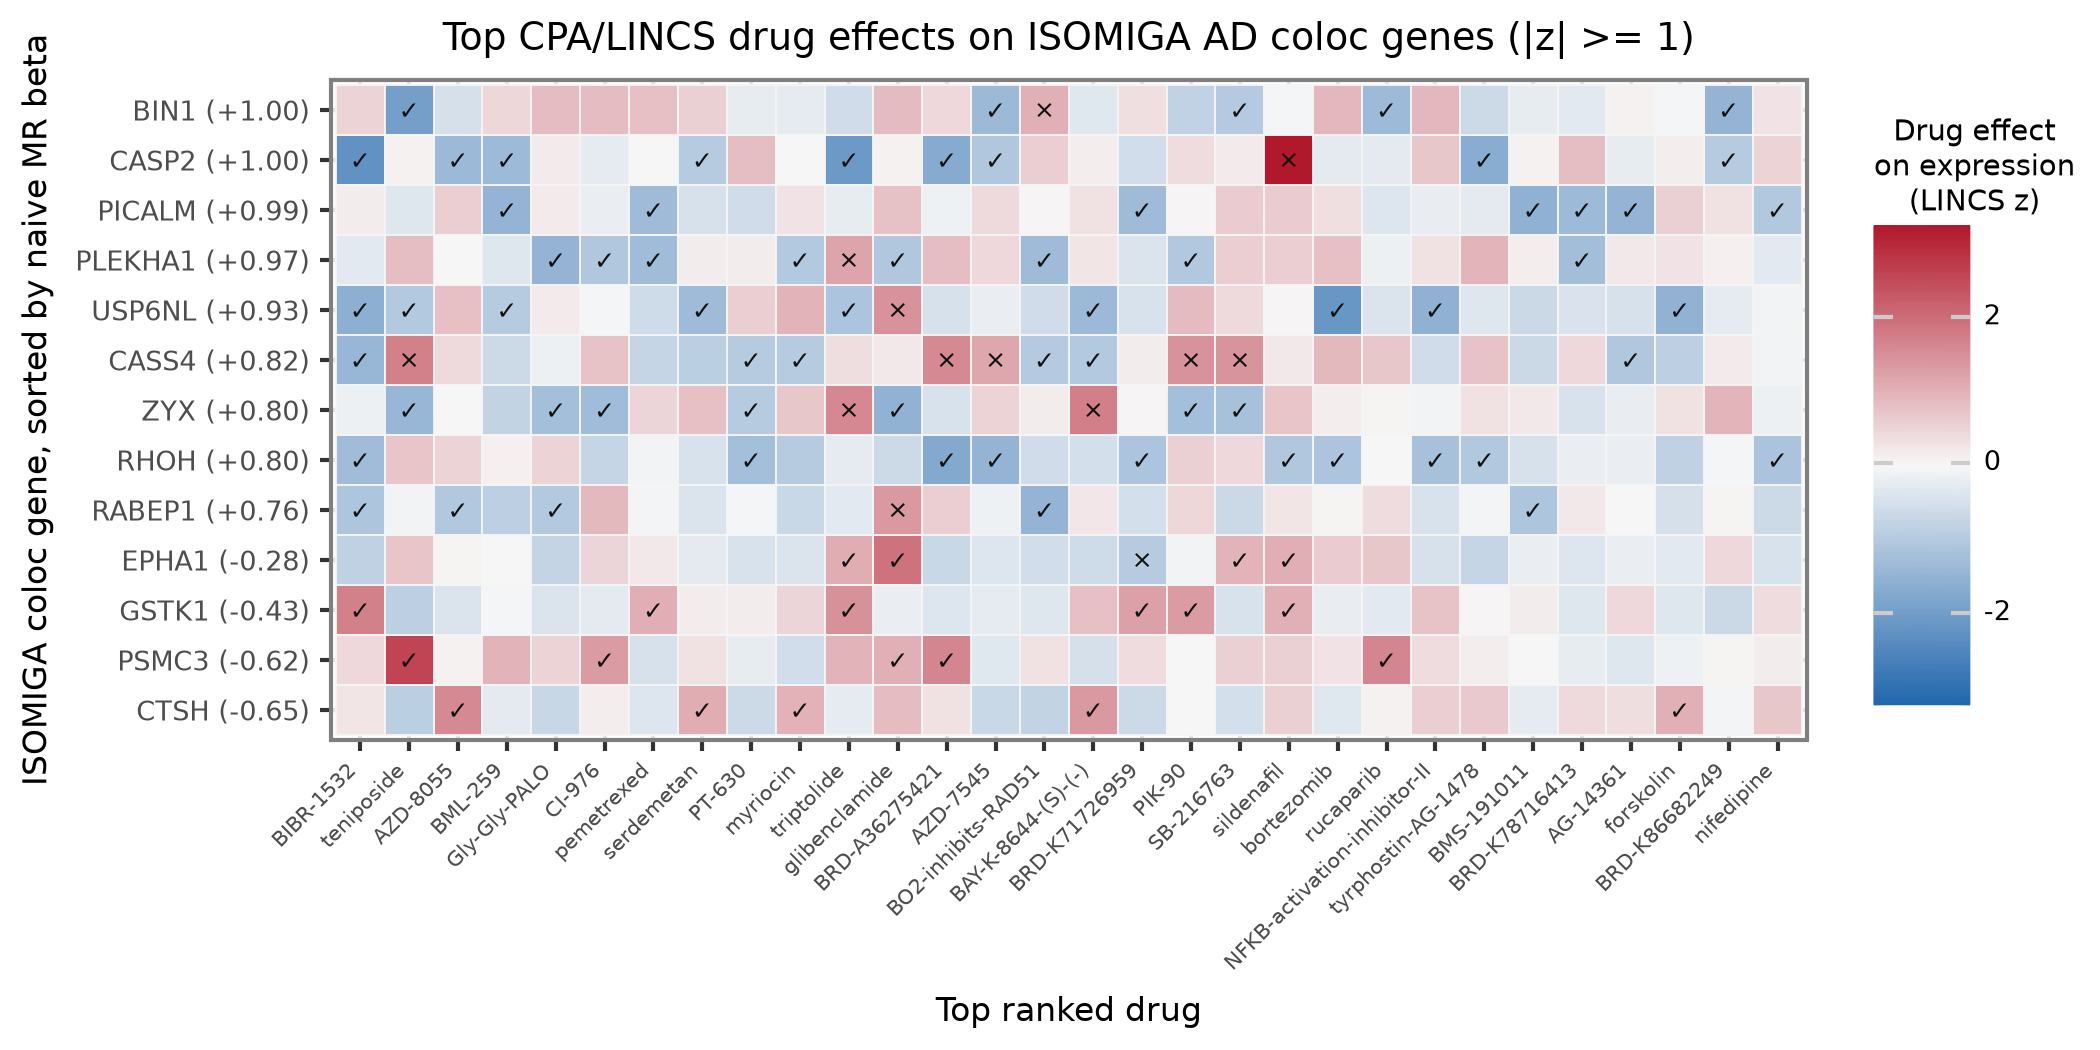
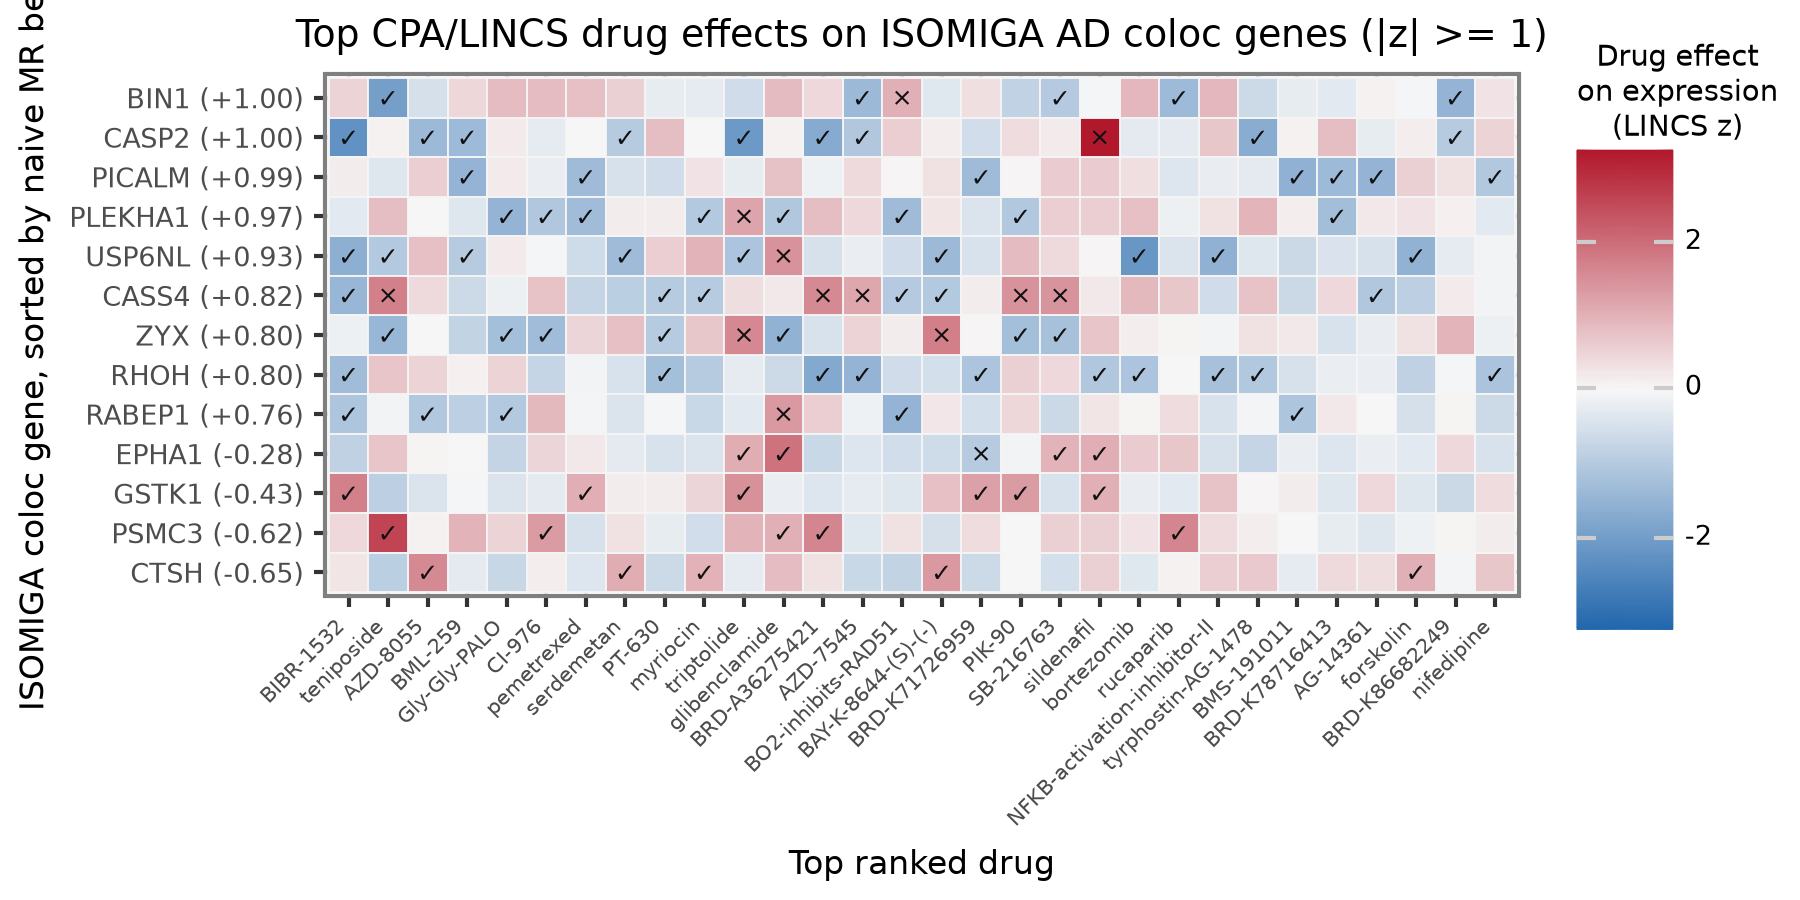
Resize CPA threshold heatmap

diff --git a/scripts/plot_cpa_coloc_gene_drug_heatmap.py b/scripts/plot_cpa_coloc_gene_drug_heatmap.py
@@ -123,7 +123,7 @@ def main() -> None:
         )
         + theme_bw()
         + theme(
-            figure_size=(7.0, 3.5),
+            figure_size=(6.0, 3.0),
             axis_title=element_text(size=8),
             axis_text_x=element_text(rotation=45, ha="right", size=5),
             axis_text_y=element_text(size=6.5),